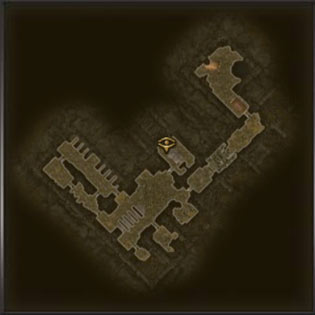
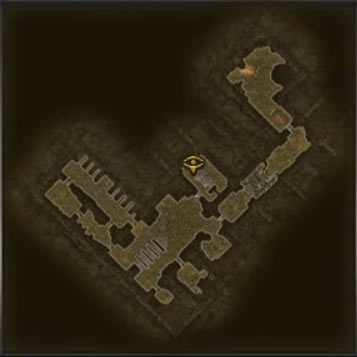
update region layer

diff --git a/js/ui.overlay.js b/js/ui.overlay.js
@@ -21,9 +21,9 @@ window.DUNGEON_OVERLAYS = [
 { id: "mountain_deep", map: "cairn", img: "mountain-deep.jpg", left: 20.9091, top: 72.1, width: 6.8081, height: 6.6695 },
 { id: "royal_hive", map: "cairn", img: "royal-hive.jpg?1.1", left: 13.5229, top: 62.4664, width: 9.4592, height: 9.3523 },
 { id: "bastion_order", map: "cairn", img: "bastion-order.jpg", left: 27.69, top: 57.946, width: 3.1863, height: 3.1196 },
-{ id: "kymons_sanctuary", map: "cairn", img: "kymons-sanctuary.jpg", left: 36.7244, top: 53.7821, width: 3.5, height: 3.4 },
-{ id: "darkvale_gate", map: "cairn", img: "darkvale-gate.jpg?1.10", left: 23.2176, top: 33.8538, width: 8.1688, height: 8.0004 },
-{ id: "fort_haron", map: "cairn", img: "fort-haron.jpg", left: 30.6495, top: 42.2, width: 3.3302, height: 3.2634 },
+{ id: "kymons_sanctuary", map: "cairn", img: "kymons-sanctuary.jpg?1.1", left: 36.7244, top: 53.7821, width: 3.5, height: 3.4 },
+{ id: "darkvale_gate", map: "cairn", img: "darkvale-gate.jpg?1.11", left: 23.2176, top: 32.6538, width: 8.0688, height: 9.1004 },
+{ id: "fort_haron", map: "cairn", img: "fort-haron.jpg?1.1", left: 29.4495, top: 41.9, width: 4.1302, height: 4.3634 },
 { id: "ashen_waste", map: "cairn", img: "ashen-waste.jpg", left: 16.4232, top: 53.7, width: 8.4634, height: 8.4283 },
 { id: "the_bonepit", map: "cairn", img: "the-bonepit.jpg", left: 36.1246, top: 49.4723, width: 2.5675, height: 2.5256 },
 { id: "tomb_of_the_damned", map: "cairn", img: "tomb-of-the-damned.jpg?1.0", left: 0.1229, top: 19.2295, width: 7.9746, height: 7.8875 },

diff --git a/index.html b/index.html
@@ -630,8 +630,8 @@
 
   <script src="js/ui.lang.js?v=3.63"></script>
   <script src="js/core.js?v=3.10"></script>
-  <script src="js/ui.rift.js?v=3.97"></script>
-  <script src="js/ui.region.js?v=4.13"></script>
+  <script src="js/ui.rift.js?v=3.98"></script>
+  <script src="js/ui.region.js?v=4.14"></script>
 
   <script src="js/ui.shrine.js?v=1.07"></script>
 
@@ -651,7 +651,7 @@
 
   <script src="libs/pako.min.js"></script>
   <script src="js/ui.tools.js?v=2.99"></script>
-  <script src="js/ui.overlay.js?v=3.27"></script>
+  <script src="js/ui.overlay.js?v=3.28"></script>
   <script src="js/ui.dungeon.links.js?v=1.23"></script>
   <script src="js/ui.filter.js?v=3.03"></script>
   <script src="js/ui.search.js?v=1.22"></script>

diff --git a/js/ui.region.js b/js/ui.region.js
@@ -106,7 +106,7 @@
 { id: 'map_blood_grove_mine', tag: 'tagMapBloodGroveMine', xp: 34.42, yp: 52.17 },
 { id: 'map_blood_grove_aether_mine', tag: 'tagMapBloodGroveAetherMine', xp: 33.46, yp: 48.22 },
 { id: 'map_darkvale_mill', tag: 'tagMapDarkvaleMill', xp: 27.45, yp: 52.44 },
-{ id: 'map_faction_fort', tag: 'tagMapFactionFort', xp: 31.10, yp: 42.73, isDungeon: true },
+{ id: 'map_faction_fort', tag: 'tagMapFactionFort', xp: 30.10, yp: 42.73, isDungeon: true },
 { id: 'map_darkvale', tag: 'tagMapDarkvale', xp: 25.05, yp: 47.53 },
 { id: 'map_alpine_road_a', tag: 'tagMapAlpineRoad', xp: 16.1, yp: 38.29 },
 { id: 'map_alpine_road_b', tag: 'tagMapAlpineRoad', xp: 12.47, yp: 33.28 },

diff --git a/js/ui.rift.js b/js/ui.rift.js
@@ -34,7 +34,7 @@ window.RIFT_MARKERS_CAIRN = [
 { id: 'necropolis_gate', tag: 'tagRiftNecropolisGate', xp: 22.5, yp: 15.25 },
 { id: 'necropolis_interior', tag: 'tagRiftNecropolisInterior', xp: 23.55, yp: 5.6 },
 { id: 'rift_blood_grove', tag: 'tagRiftBloodGrove', xp: 30.39, yp: 51.52 },
-{ id: 'dark_vale', tag: 'tagRiftDarkvale', xp: 29.24, yp: 39.23 },
+{ id: 'dark_vale', tag: 'tagRiftDarkvale', xp: 29.59, yp: 38.38 },
 { id: 'Sorrows_Bastion', tag: 'tagRiftSorrowsBastion', xp: 33.80, yp: 58.72 }
 
 
